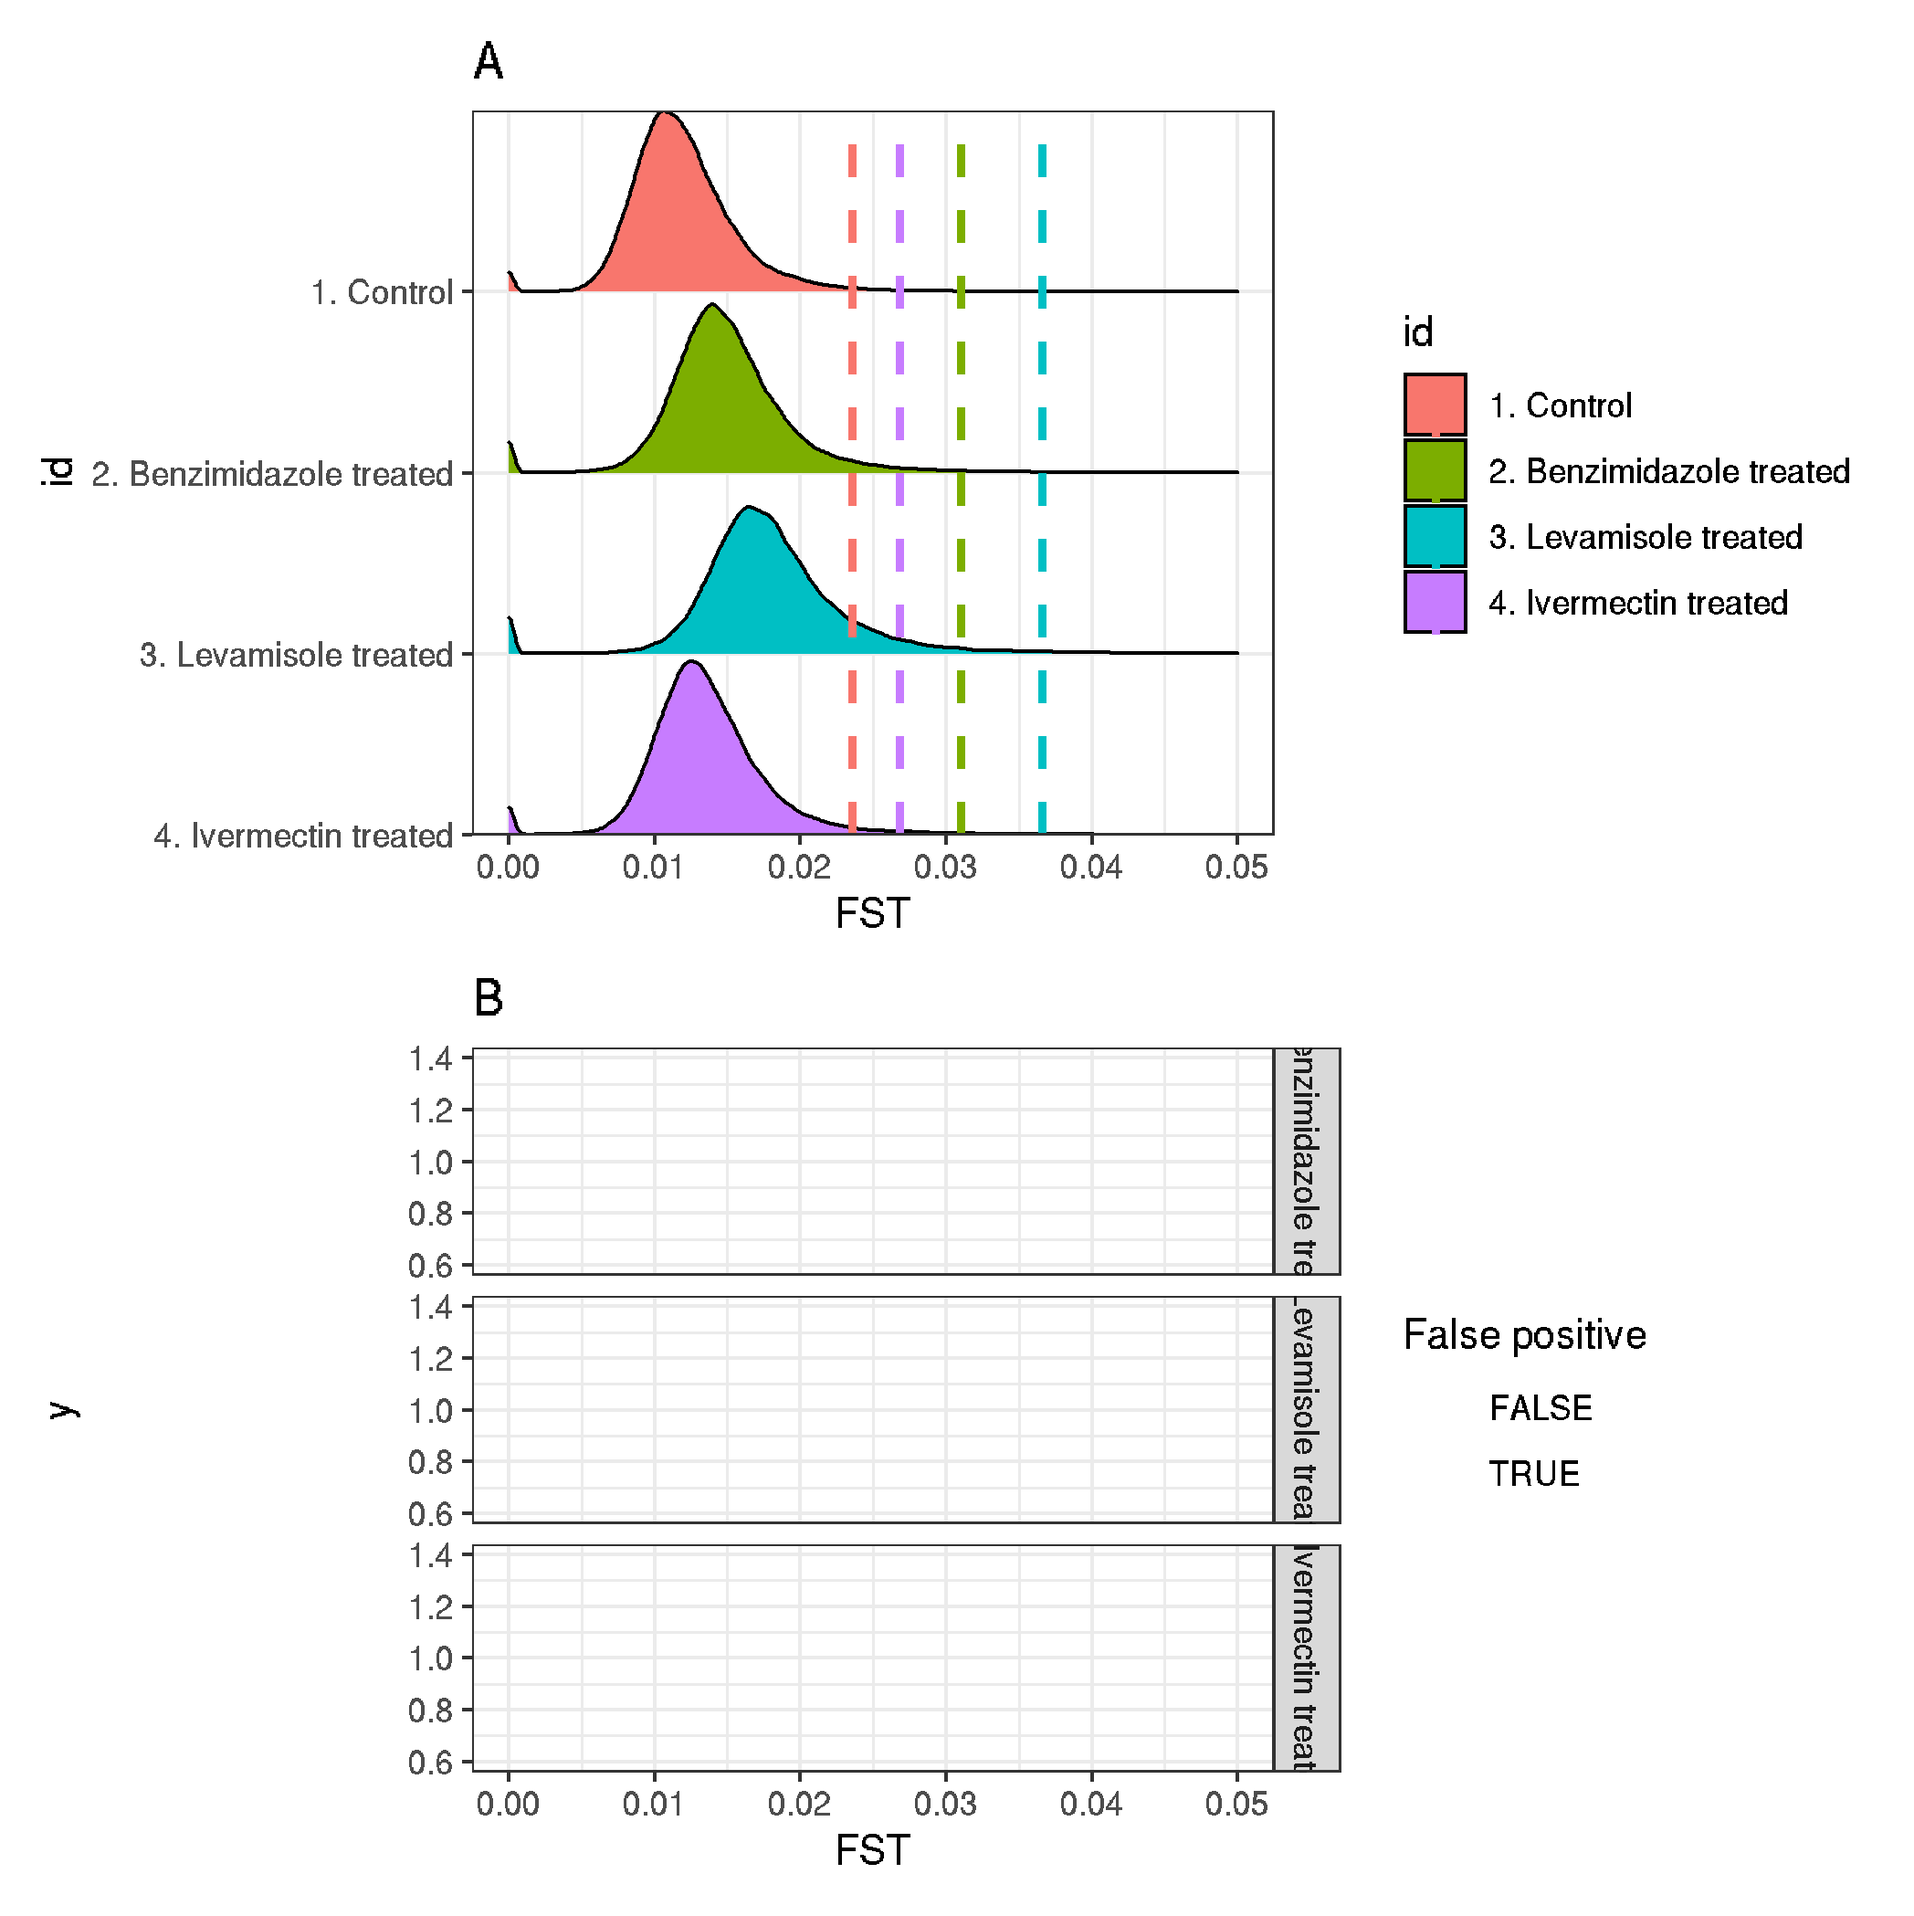
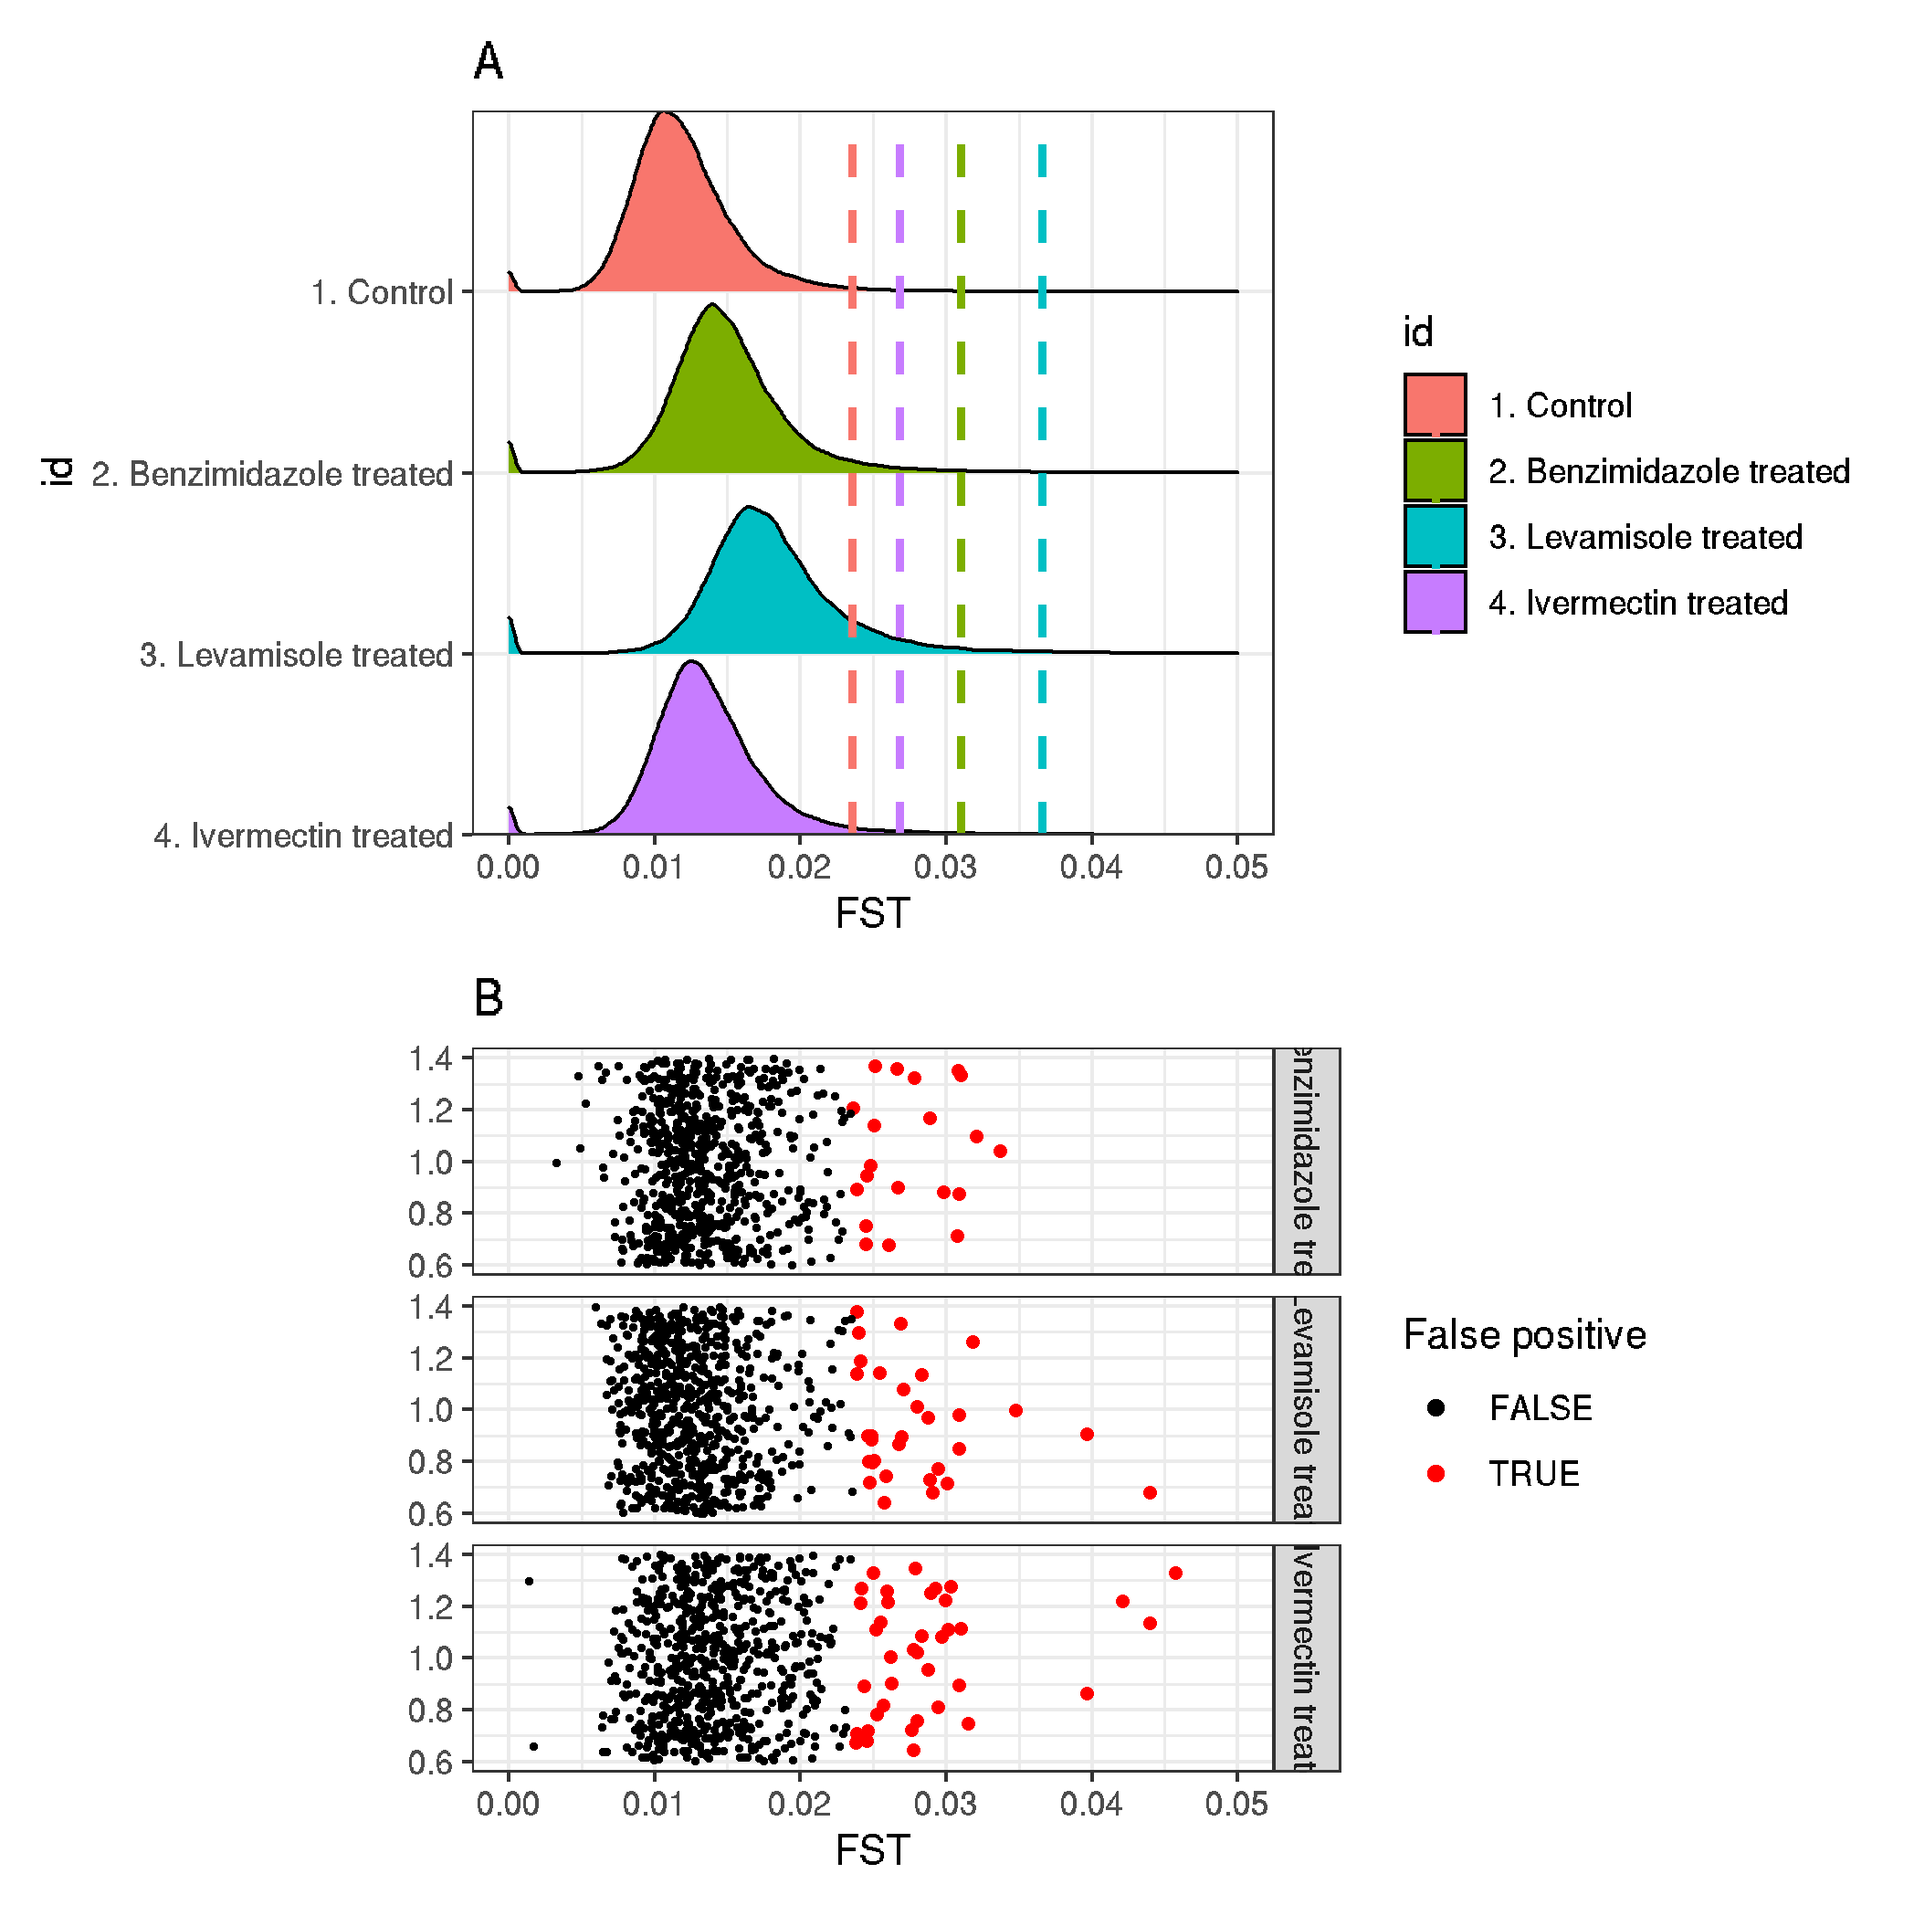
update

Changed region(s): [[0.3101, 0.5267, 0.4962, 0.9295]]

diff --git a/03_code/hcontrotus_xqtl_fdr.md b/03_code/hcontrotus_xqtl_fdr.md
@@ -107,10 +107,11 @@ data2 <- bind_rows(control_bz_high, control_lev_high, control_ivm_high)
 
 
 fp_plot <- ggplot(data2,aes(V13.x,1)) +
-     geom_jitter(aes(color = V13.x > mean(control$V13)+3*sd(control$V13)), alpha=0.4)+ xlim(0,0.05) +
+     geom_jitter(aes(color = V13.x > mean(control$V13)+3*sd(control$V13), size = V13.x > mean(control$V13)+3*sd(control$V13)))+ xlim(0,0.05) +
+     scale_size_manual(values = c("TRUE" = 1, "FALSE" = 0.3), guide = "none")+
      scale_color_manual(values = c("TRUE" = "red", "FALSE" = "black"))+
      theme_bw() +
-     labs(title = "B", x="FST", colour="False positive")+
+     labs(title = "B", x="FST", colour="False positive", size="", y="")+
      facet_grid(id.y~.)
 
 fst_distribution_plot + fp_plot + plot_layout(ncol = 1)
